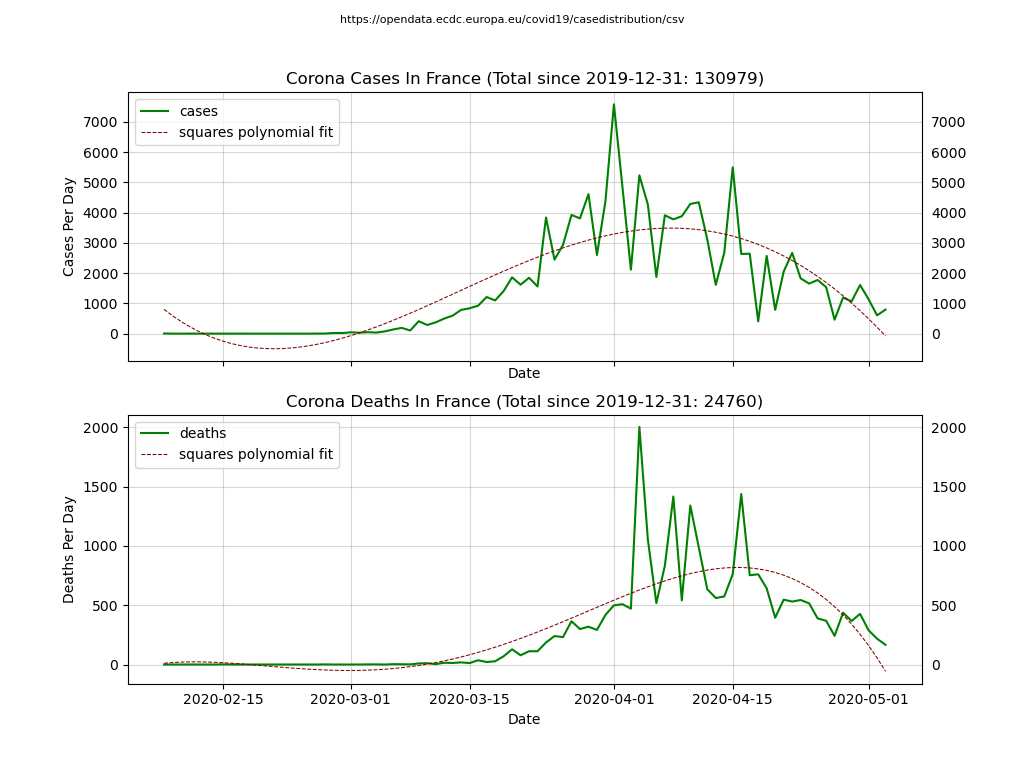
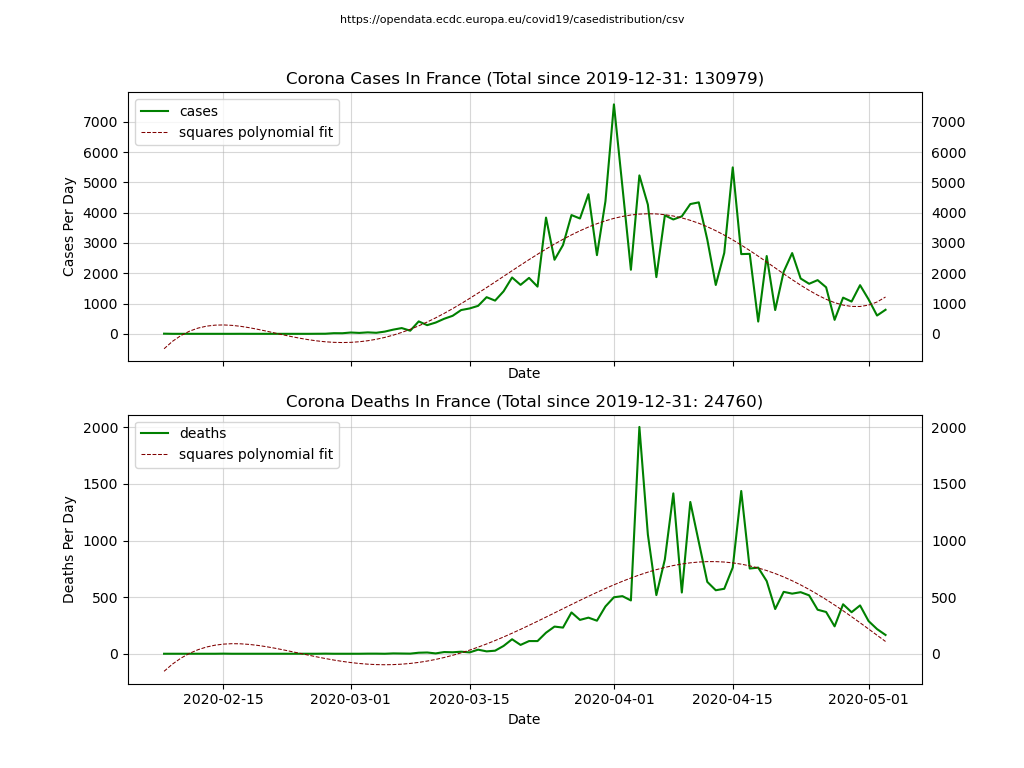
Updated images with current date (squares polynomial fit with degree of fitting: 5)

diff --git a/visualize.py b/visualize.py
@@ -195,7 +195,7 @@ class Application:
 
         # square polynomial fit for Corona cases
         xt = np.arange(len(x))
-        pt = np.poly1d(np.polyfit(xt, df_concrete[name].values.flatten(), 4))
+        pt = np.poly1d(np.polyfit(xt, df_concrete[name].values.flatten(), 5))
         target.plot(x, pt(xt), label='squares polynomial fit',
                     linestyle='dashed', linewidth=0.75, color='#800000')
 
